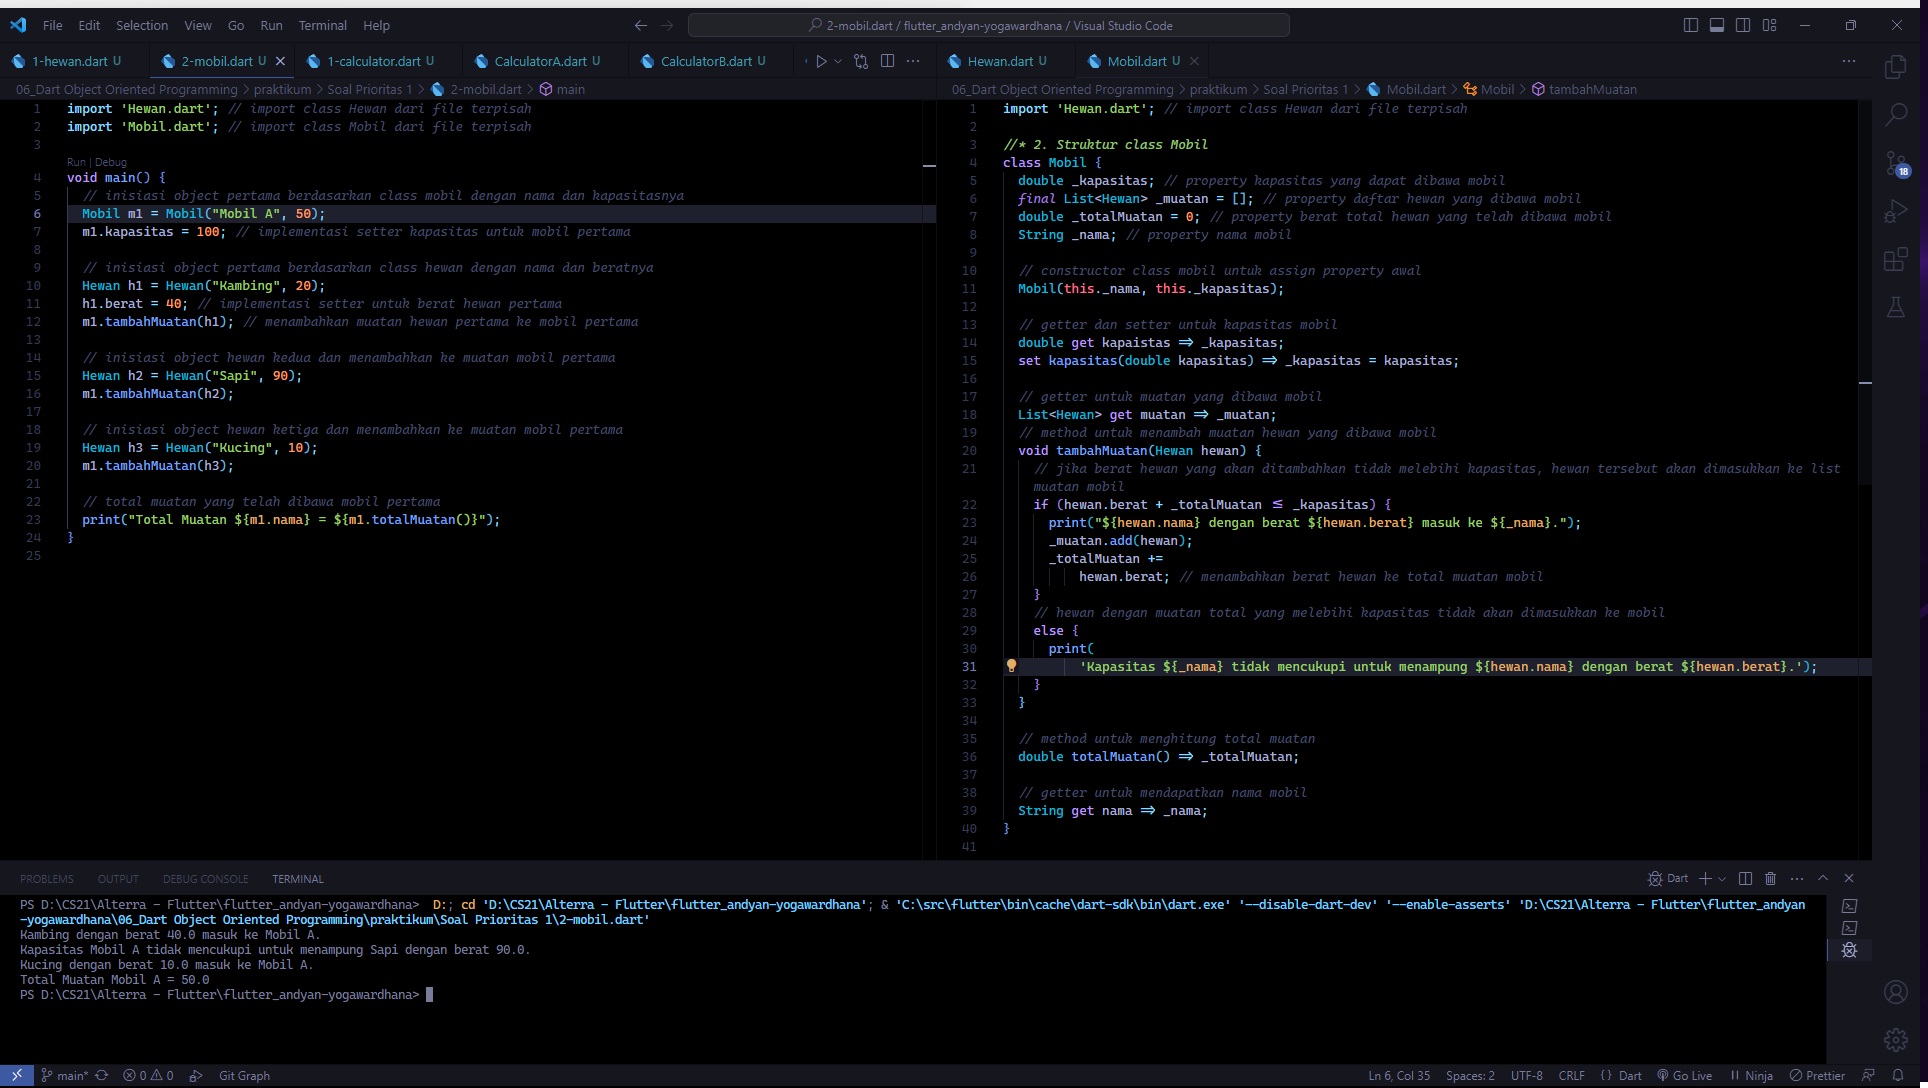
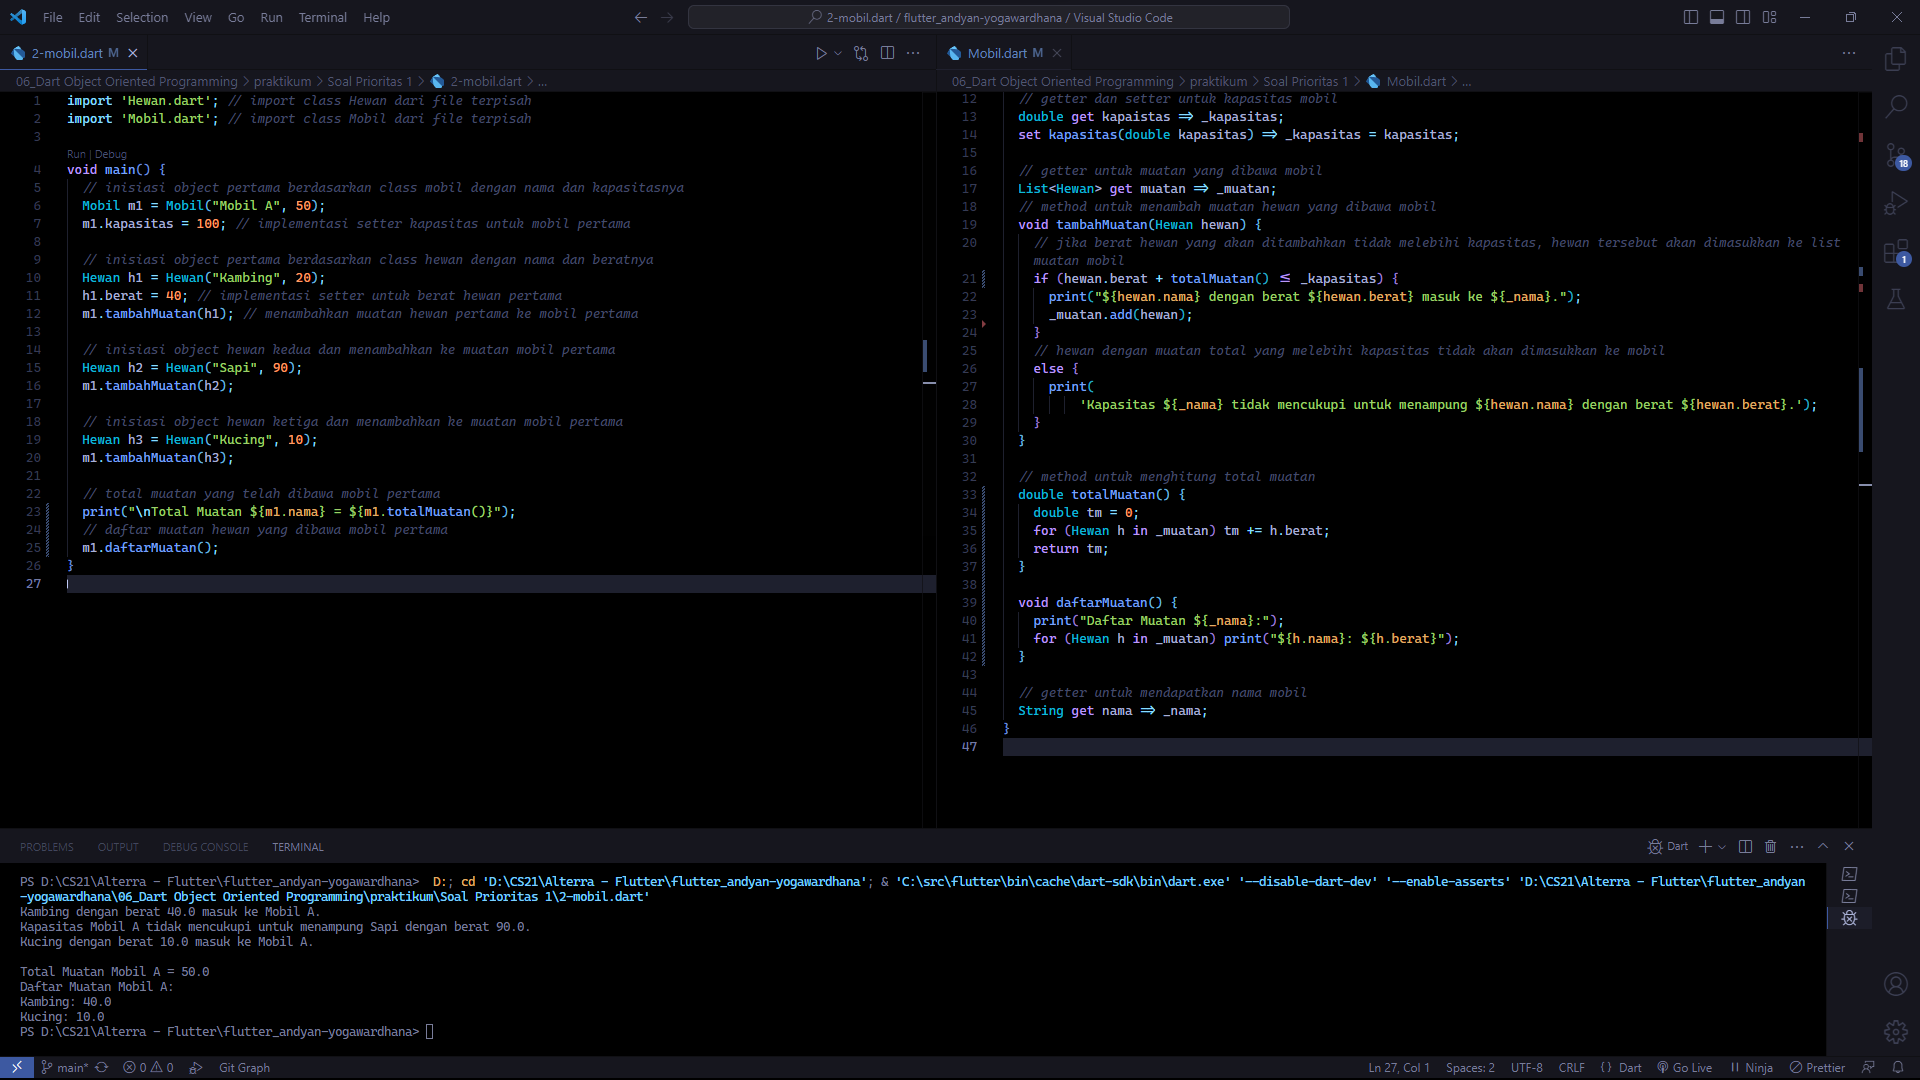
fix - tugas 6 sp 1 (method total muatan mobil)

Changed region(s): [[0.0, 0.0, 1.0, 1.0], [0.9688, 0.7028, 1.0, 0.7639]]

diff --git a/06_Dart Object Oriented Programming/praktikum/Soal Prioritas 1/Mobil.dart b/06_Dart Object Oriented Programming/praktikum/Soal Prioritas 1/Mobil.dart
@@ -4,7 +4,6 @@ import 'Hewan.dart'; // import class Hewan dari file terpisah
 class Mobil {
   double _kapasitas; // property kapasitas yang dapat dibawa mobil
   final List<Hewan> _muatan = []; // property daftar hewan yang dibawa mobil
-  double _totalMuatan = 0; // property berat total hewan yang telah dibawa mobil
   String _nama; // property nama mobil
 
   // constructor class mobil untuk assign property awal
@@ -19,11 +18,9 @@ class Mobil {
   // method untuk menambah muatan hewan yang dibawa mobil
   void tambahMuatan(Hewan hewan) {
     // jika berat hewan yang akan ditambahkan tidak melebihi kapasitas, hewan tersebut akan dimasukkan ke list muatan mobil
-    if (hewan.berat + _totalMuatan <= _kapasitas) {
+    if (hewan.berat + totalMuatan() <= _kapasitas) {
       print("${hewan.nama} dengan berat ${hewan.berat} masuk ke ${_nama}.");
       _muatan.add(hewan);
-      _totalMuatan +=
-          hewan.berat; // menambahkan berat hewan ke total muatan mobil
     }
     // hewan dengan muatan total yang melebihi kapasitas tidak akan dimasukkan ke mobil
     else {
@@ -33,7 +30,16 @@ class Mobil {
   }
 
   // method untuk menghitung total muatan
-  double totalMuatan() => _totalMuatan;
+  double totalMuatan() {
+    double tm = 0;
+    for (Hewan h in _muatan) tm += h.berat;
+    return tm;
+  }
+
+  void daftarMuatan() {
+    print("Daftar Muatan ${_nama}:");
+    for (Hewan h in _muatan) print("${h.nama}: ${h.berat}");
+  }
 
   // getter untuk mendapatkan nama mobil
   String get nama => _nama;

diff --git a/06_Dart Object Oriented Programming/praktikum/Soal Prioritas 1/2-mobil.dart b/06_Dart Object Oriented Programming/praktikum/Soal Prioritas 1/2-mobil.dart
@@ -20,5 +20,7 @@ void main() {
   m1.tambahMuatan(h3);
 
   // total muatan yang telah dibawa mobil pertama
-  print("Total Muatan ${m1.nama} = ${m1.totalMuatan()}");
+  print("\nTotal Muatan ${m1.nama} = ${m1.totalMuatan()}");
+  // daftar muatan hewan yang dibawa mobil pertama
+  m1.daftarMuatan();
 }

diff --git a/06_Dart Object Oriented Programming/praktikum/Soal Prioritas 1/1-hewan.dart b/06_Dart Object Oriented Programming/praktikum/Soal Prioritas 1/1-hewan.dart
@@ -5,6 +5,7 @@ void main() {
   Hewan h1 = Hewan("Anjing", 20);
   h1.berat = 40; // implementasi setter untuk berat hewan
 
+  // menampilkan nama dan berat hewan pertama
   print(h1.nama);
   print(h1.berat);
 }
